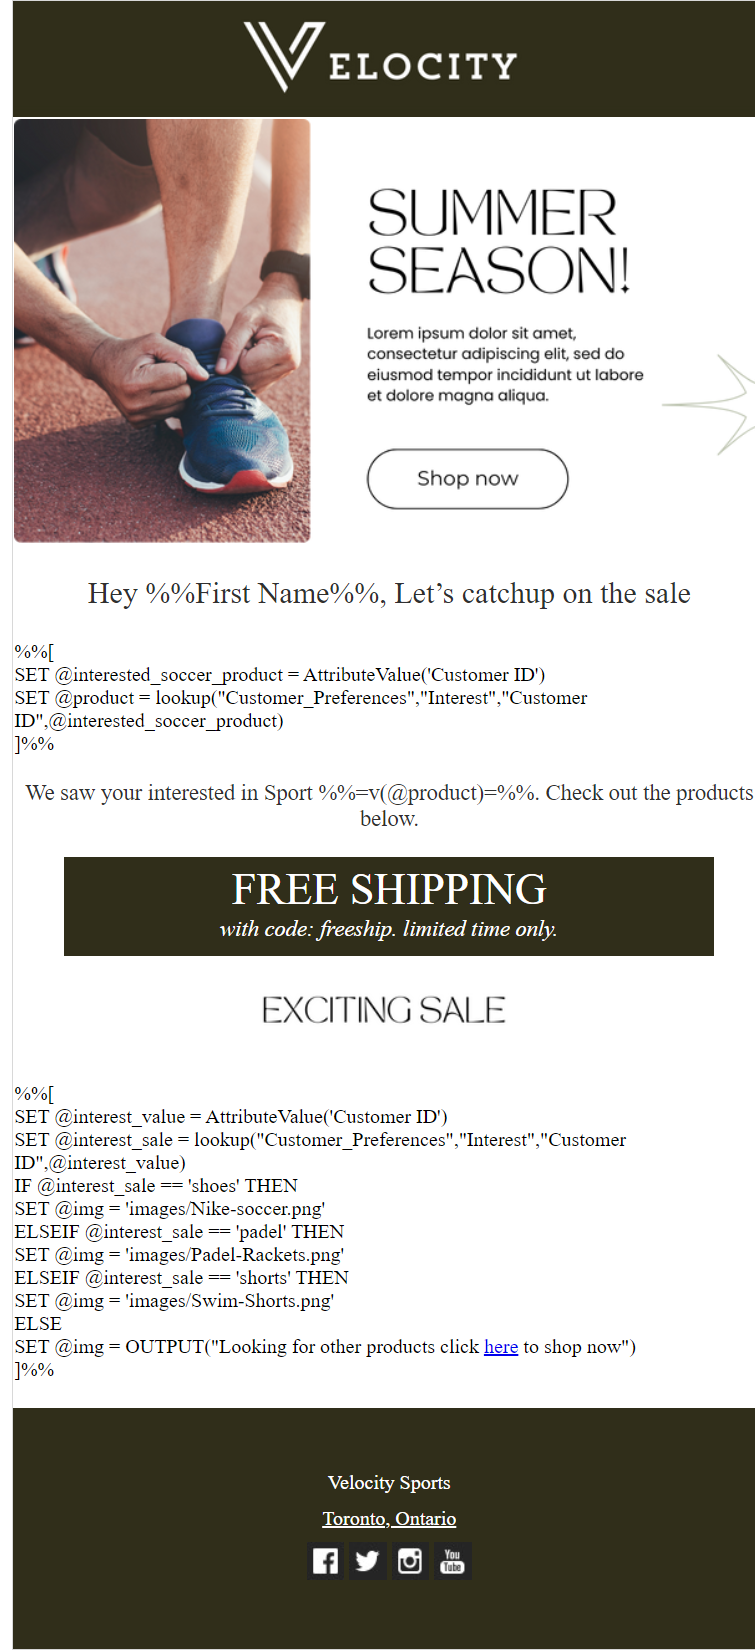
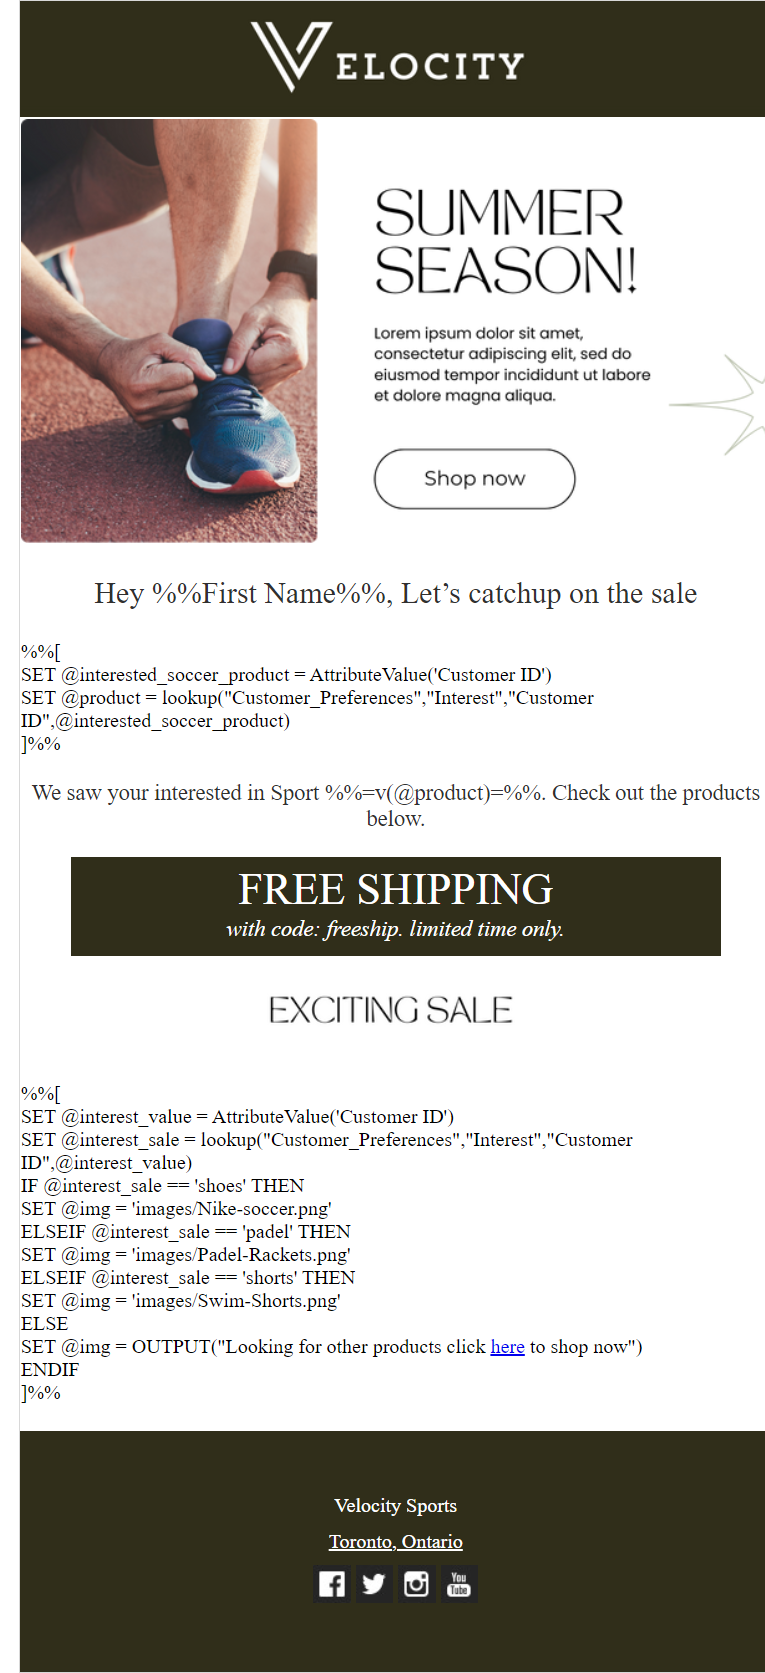
Modified Readme file

diff --git a/personalize-experience_using_AMPScript.html b/personalize-experience_using_AMPScript.html
@@ -111,7 +111,7 @@
 
                                                             ELSE<br/>
                                                             SET @img = OUTPUT("Looking for other products click <a href="#">here</a> to shop now")<br/>
-                                                            
+                                                            ENDIF<br/>
                                                             ]%%<br/>
                                                         </td>
                                                     </tr>
